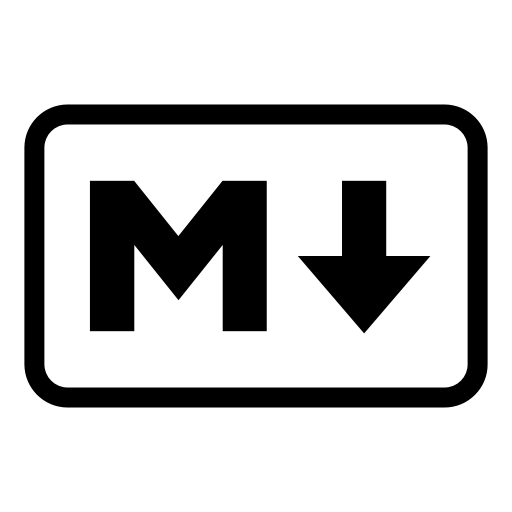
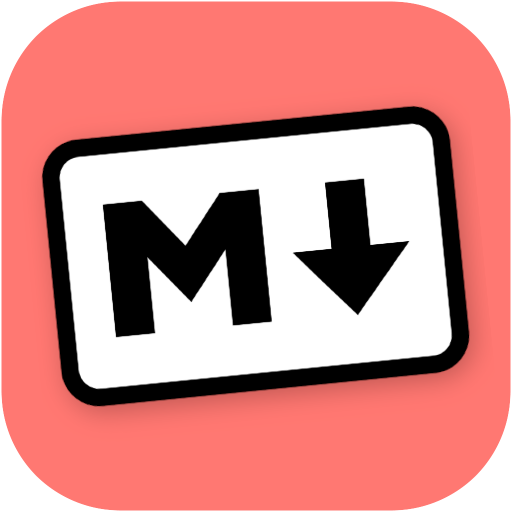
Version 1.3 🎉

diff --git a/source/Markdown Clips.novaextension/CHANGELOG.md b/source/Markdown Clips.novaextension/CHANGELOG.md
@@ -1,12 +1,27 @@
+## Version 1.3
+**[Changed]**
+A handful of triggers have been changed, to make clip activation more natural with your writing.
+
+* The keystroke `>` invokes the list of block quote options
+* The keystroke `-` invokes text formatting options
+* The keystroke `|` invokes the list of table options
+
+You can still bring these up using their descriptive names though. (For example, if you start typing the word *block quote*, the block quote options will appear.)
+
+**[Changed]**
+The extension app logo has been updated, to be more colourful.
+
 ## Version 1.2
-* [**Changed**] Commands support for **bold** and *italic* removed, as I've integrated the formatting with the clips.Same power, but easier to wield! ([Repo Issue 1: Format selection with keyboard shortcuts](https://github.com/seanosullivanuk/nova-markdownclips/issues/1)).
-* [**New**] Added *Header ID's*. These are useful if you want to generate links directly to headings in resulting HTML markup.
+**[Changed]** Commands support for **bold** and *italic* removed, as I've integrated the formatting with the clips.Same power, but easier to wield! ([Repo Issue 1: Format selection with keyboard shortcuts](https://github.com/seanosullivanuk/nova-markdownclips/issues/1)).
+
+**[New]** Added *Header ID's*. These are useful if you want to generate links directly to headings in resulting HTML markup.
 
 ## Version 1.1
-* [**New**] Bold and italic are now published as Commands, so you can select existing text and change its formatting.
+**[New]** Bold and italic are now published as Commands, so you can select existing text and change its formatting.
     * You can use the menu, *Editor > Markdown Clips* to do this
     * Alternatively, bind the commands to custom keyboard mappings within *Preferences > Key Bindings > Extensions*)
-* [**Fixed**] Typing the word *boot* and pressing 'Enter' would replace with a blockquote.
+
+**[Fixed]** Typing the word *boot* and pressing 'Enter' would replace with a blockquote.
 
 ## Version 1.0
 

diff --git a/source/Markdown Clips.novaextension/README.md b/source/Markdown Clips.novaextension/README.md
@@ -1,6 +1,6 @@
 # Markdown Clips for Nova
 
-<img src="https://img.shields.io/badge/Markdown%20Clips-1.2-purple.svg" />
+<img src="https://img.shields.io/badge/Markdown%20Clips-1.3-purple.svg" />
 
 **Markdown Clips** is a collection of Basic and Extended Markdown syntax snippets, for use in Panic Inc's [Nova](https://nova.app).
 
@@ -17,7 +17,7 @@ Alternatively you can download the extension from the GitHub repository, double 
 ## Usage
 ### Autocomplete and keyboard shortcuts
 
-**Markdown Clips** uses *triggers* to assist with autocomplete. Unlike some other markup languages, the triggers are only part of the words so they don't interrupt your writing. 
+**Markdown Clips** uses *triggers* to assist with autocomplete.
 
 ![Autocomplete for Nova](https://raw.githubusercontent.com/seanosullivanuk/nova-markdownclips/main/screenshot-autocomplete.png "Autocomplete example for Markdown Clips in Nova")
 
@@ -26,3 +26,8 @@ There is *keyboard shortcut support* for some of the formatting options. (e.g. C
 ### Sidebar
 
 You can also open the *Clips* sidebar to visually browse the library. Nova will let you double click, or click and drag into the editor.
+
+### Support the Project
+
+If you find Markdown Clips useful and would like to support the project, I'd be grateful if you'd [buy me a coffee](https://www.buymeacoffee.com/seanosullivanuk).
+
